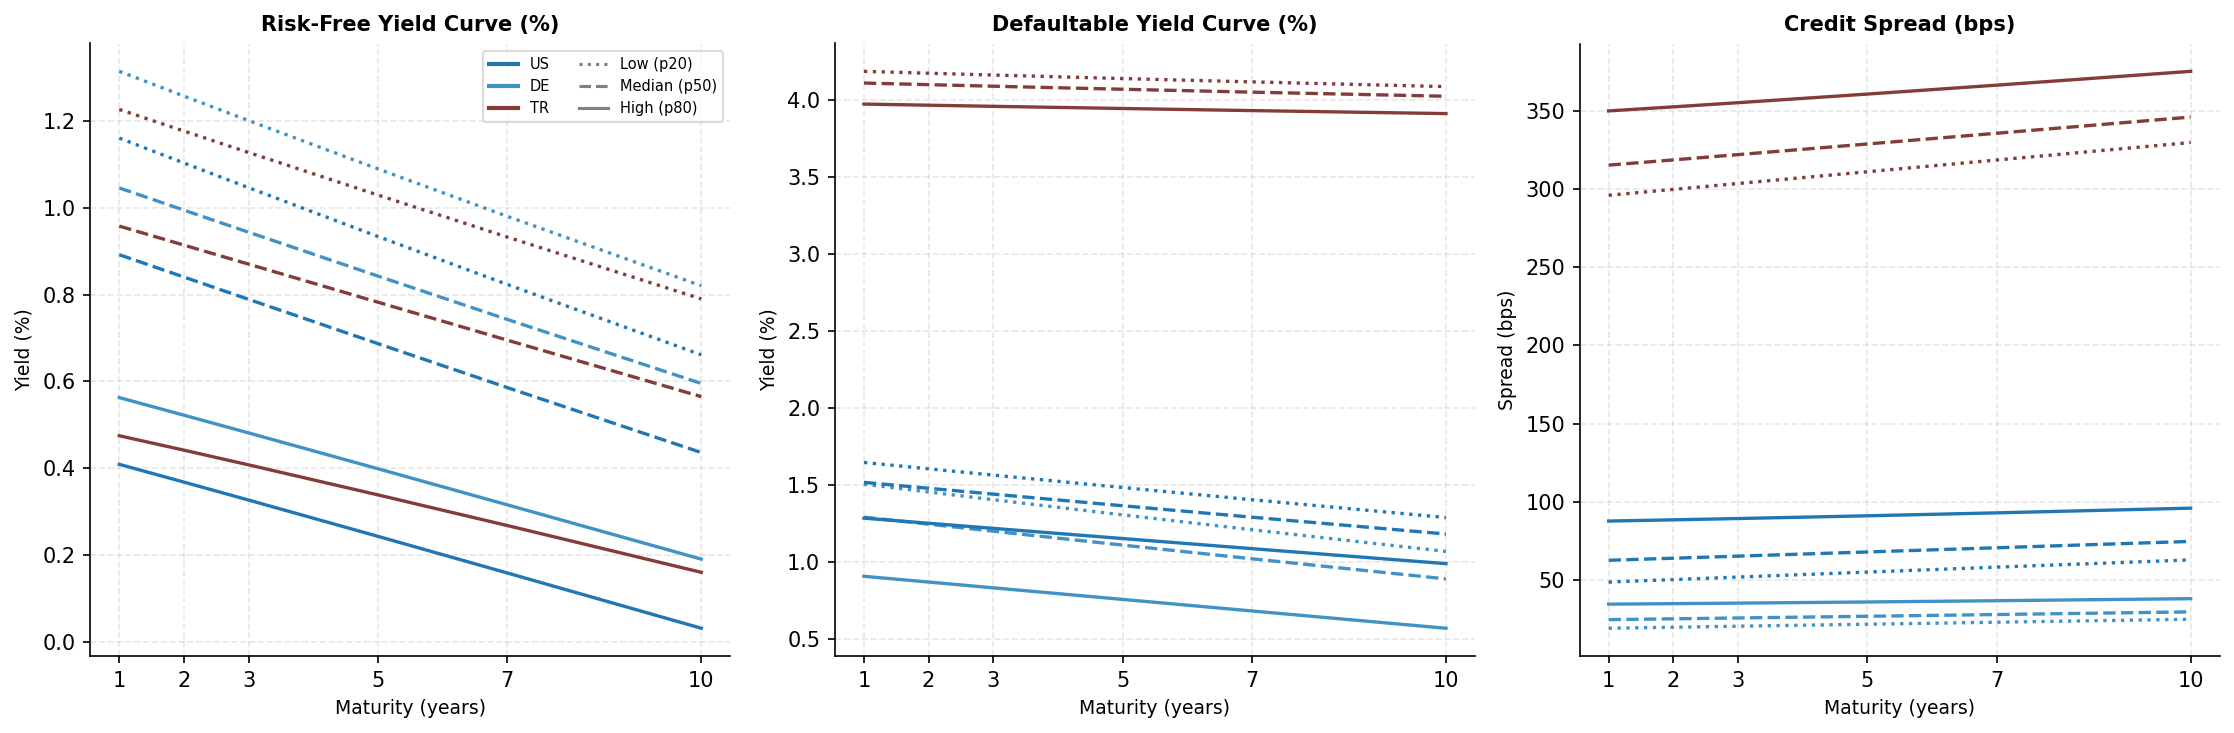
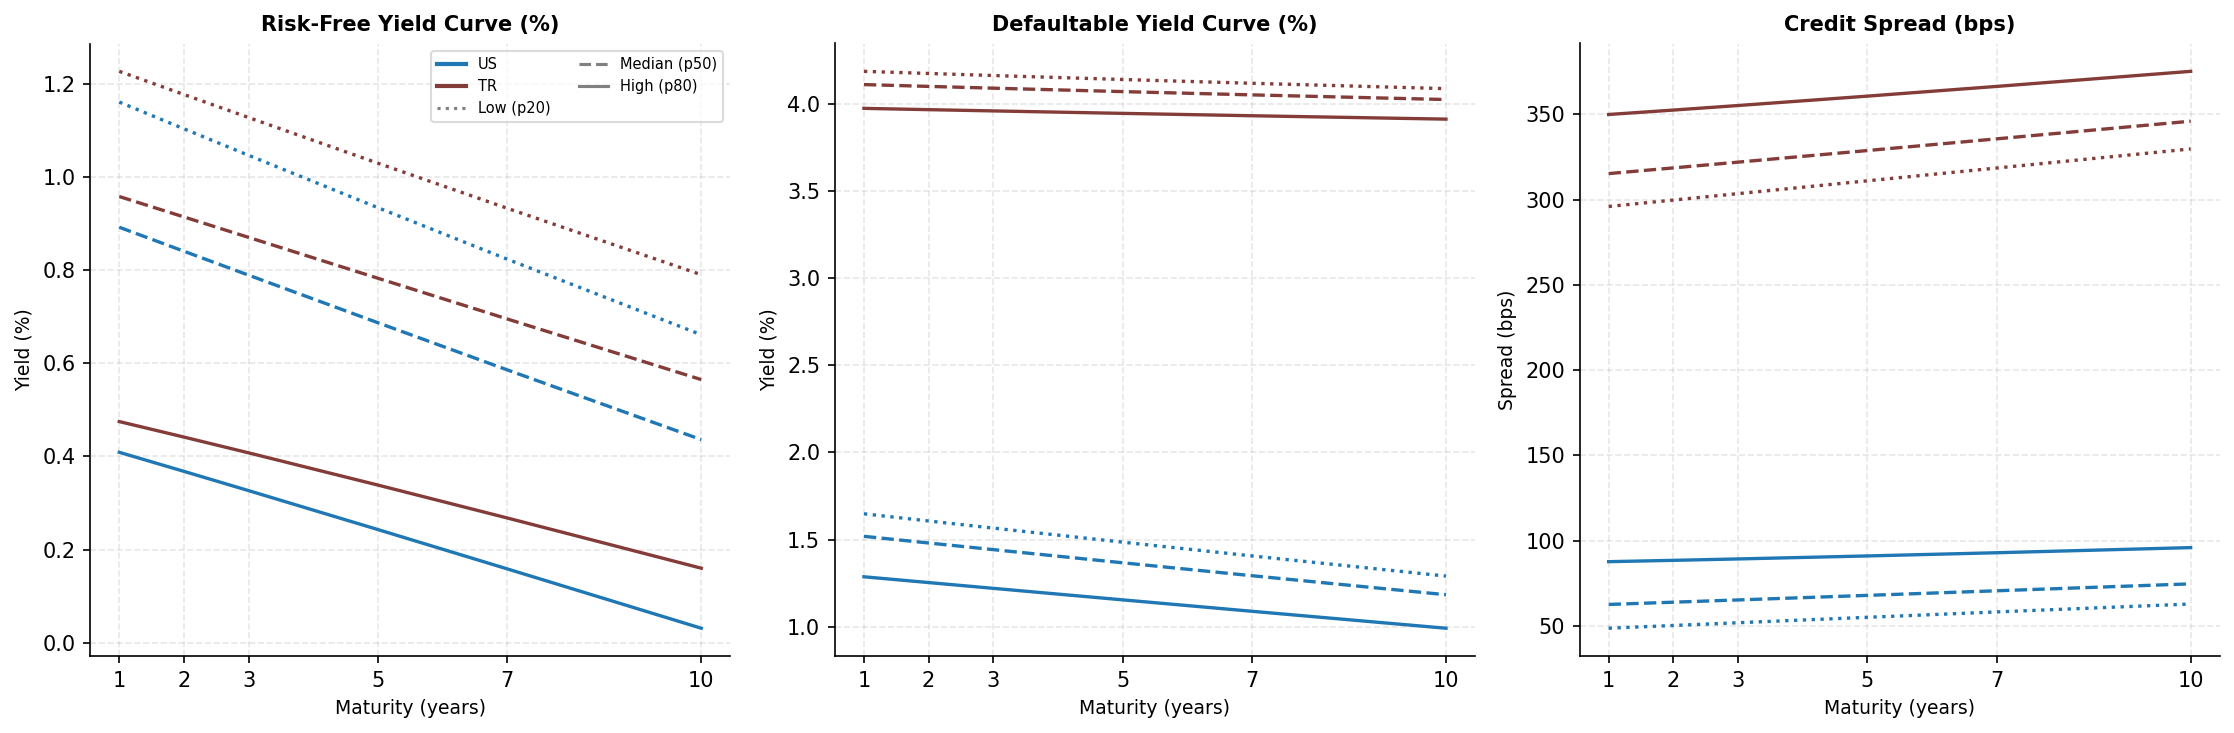
simulate

diff --git a/calibration/plot_results.py b/calibration/plot_results.py
@@ -55,8 +55,8 @@ SIM_5Y_CSV     = os.path.join(BASE_DIR, "results", "simulation", "simulated_5y_a
 FIGS_DIR       = os.path.join(BASE_DIR, "results", "figures")
 
 # ── Country groupings ────────────────────────────────────────────────────────
-DEVELOPED = ["US", "DE", "UK", "JP", "FR", "NL", "SE"]
-EMERGING  = ["BR", "CL", "ES", "ID", "MX", "MY", "TH", "TR"]
+DEVELOPED = ["US", "DE", "UK", "JP", "FR", "NL", "ES", "SE"]
+EMERGING  = ["BR", "CL", "ID", "MX", "MY", "TH", "TR"]
 ALL_15    = DEVELOPED + EMERGING
 CORE      = ["US", "DE", "UK", "CL", "ID", "TR"]
 GROUP_MAP = {c: "Developed" for c in DEVELOPED}
@@ -484,7 +484,7 @@ def plot_flight_to_quality_global_shock(
     country_p:    dict[str, DisasterModelParams],
 ) -> None:
     """RF yield, defaultable yield, and credit spread curves at 3 global disaster states."""
-    countries_ftq = ["US", "DE", "TR"]
+    countries_ftq = ["US", "TR"]
     tau_grid = np.array([1.0, 2.0, 3.0, 5.0, 7.0, 10.0])
 
     # Global disaster state percentiles

diff --git a/calibration/results/tables/latex/bond_term_structure_diagnostics.tex b/calibration/results/tables/latex/bond_term_structure_diagnostics.tex
@@ -15,12 +15,12 @@ JP & Dev & -0.001351 & -0.001345 & -4.504e-04 & No & No & No & -41.41 & -35.87 &
 FR & Dev & -0.001351 & -0.001064 & -0.001108 & No & No & No & -52.42 & -47.90 & 0.0 & 0.0 \\
 NL & Dev & -0.001351 & -0.001347 & -5.741e-04 & No & No & No & -42.02 & -37.28 & 0.0 & 0.0 \\
 SE & Dev & -0.001351 & -0.001278 & -6.741e-04 & No & No & No & -40.16 & -35.52 & 0.0 & 0.0 \\
+ES & Dev & -0.001351 & -5.214e-04 & 4.923e-04 & No & No & Yes & -42.06 & -25.23 & 0.4 & 1.3 \\
 \midrule
 \multicolumn{12}{l}{\textit{Emerging}} \\
 \midrule
 BR & Eme & -0.001351 & -7.122e-04 & 0.003292 & No & No & Yes & -47.84 & -11.80 & 0.0 & 16.8 \\
 CL & Eme & -0.001351 & -0.001297 & 9.209e-05 & No & No & Yes & -41.91 & -32.38 & 0.0 & 0.0 \\
-ES & Eme & -0.001351 & -5.214e-04 & 4.923e-04 & No & No & Yes & -42.06 & -25.23 & 0.4 & 1.3 \\
 ID & Eme & -0.001351 & -9.345e-04 & 0.001368 & No & No & Yes & -59.01 & -38.36 & 15.7 & 18.7 \\
 MX & Eme & -0.001351 & -7.729e-04 & 9.668e-04 & No & No & Yes & -42.70 & -23.47 & 0.0 & 0.7 \\
 MY & Eme & -0.001351 & -6.188e-04 & 4.177e-04 & No & No & Yes & -40.70 & -25.23 & 2.5 & 2.5 \\

diff --git a/calibration/results/tables/latex/appendix_full_term_structure_diagnostics.tex b/calibration/results/tables/latex/appendix_full_term_structure_diagnostics.tex
@@ -13,9 +13,9 @@ JP & Dev & -0.001351 & -0.001345 & -4.504e-04 & N & N & N & -41.41 & -35.87 & 0.
 FR & Dev & -0.001351 & -0.001064 & -0.001108 & N & N & N & -52.42 & -47.90 & 0.0 & 0.0 \\
 NL & Dev & -0.001351 & -0.001347 & -5.741e-04 & N & N & N & -42.02 & -37.28 & 0.0 & 0.0 \\
 SE & Dev & -0.001351 & -0.001278 & -6.741e-04 & N & N & N & -40.16 & -35.52 & 0.0 & 0.0 \\
+ES & Dev & -0.001351 & -5.214e-04 & 4.923e-04 & N & N & Y & -42.06 & -25.23 & 0.4 & 1.3 \\
 BR & Eme & -0.001351 & -7.122e-04 & 0.003292 & N & N & Y & -47.84 & -11.80 & 0.0 & 16.8 \\
 CL & Eme & -0.001351 & -0.001297 & 9.209e-05 & N & N & Y & -41.91 & -32.38 & 0.0 & 0.0 \\
-ES & Eme & -0.001351 & -5.214e-04 & 4.923e-04 & N & N & Y & -42.06 & -25.23 & 0.4 & 1.3 \\
 ID & Eme & -0.001351 & -9.345e-04 & 0.001368 & N & N & Y & -59.01 & -38.36 & 15.7 & 18.7 \\
 MX & Eme & -0.001351 & -7.729e-04 & 9.668e-04 & N & N & Y & -42.70 & -23.47 & 0.0 & 0.7 \\
 MY & Eme & -0.001351 & -6.188e-04 & 4.177e-04 & N & N & Y & -40.70 & -25.23 & 2.5 & 2.5 \\

diff --git a/calibration/results/tables/latex/calibration_main.tex b/calibration/results/tables/latex/calibration_main.tex
@@ -15,12 +15,12 @@ JP & Dev & 7.969e-09 & 0.0011 & 0.1544 & 0.993 & 0.35 & 24.38 & 0.619 & 1434 \\
 FR & Dev & 3.072e-08 & 0.0533 & 0.0452 & 0.459 & 0.40 & 16.11 & 0.476 & 834 \\
 NL & Dev & 2.457e-09 & 0.0008 & 0.1443 & 0.995 & 0.40 & 23.16 & 0.625 & 1363 \\
 SE & Dev & 4.648e-08 & 0.0136 & 0.1257 & 0.902 & 0.40 & 31.14 & 0.367 & 1353 \\
+ES & Dev & 1.779e-15 & 0.1541 & 0.3423 & 0.690 & 0.40 & 86.08 & 0.741 & 1368 \\
 \midrule
 \multicolumn{10}{l}{\textit{Emerging}} \\
 \midrule
 BR & Eme & 1.640e-06 & 0.0949 & 0.6896 & 0.879 & 0.25 & 75.00 & 0.460 & 570 \\
 CL & Eme & 0.001198 & 0.0080 & 0.2144 & 0.964 & 0.25 & 37.34 & 0.406 & 1062 \\
-ES & Eme & 1.779e-15 & 0.1541 & 0.3423 & 0.690 & 0.40 & 86.08 & 0.741 & 1368 \\
 ID & Eme & 1.132e-11 & 0.0774 & 0.5048 & 0.867 & 0.40 & 86.20 & 0.739 & 1410 \\
 MX & Eme & 1.115e-06 & 0.0859 & 0.3443 & 0.800 & 0.25 & 54.12 & 0.423 & 918 \\
 MY & Eme & 4.882e-09 & 0.1360 & 0.3284 & 0.707 & 0.40 & 46.75 & 0.607 & 1422 \\

diff --git a/calibration/results/tables/latex/appendix_full_simulation_moments.tex b/calibration/results/tables/latex/appendix_full_simulation_moments.tex
@@ -14,9 +14,9 @@ JP & Developed & 40.9 & 19.6 & 25.8 & 11.1 & 0.976 & 0.982 \\
 FR & Developed & 26.7 & 25.3 & 10.4 & 10.3 & 0.882 & 0.990 \\
 NL & Developed & 33.7 & 16.8 & 27.4 & 9.5 & 0.966 & 0.982 \\
 SE & Developed & 34.3 & 18.3 & 33.8 & 8.9 & 0.908 & 0.983 \\
+ES & Developed & 112.9 & 85.7 & 109.1 & 35.9 & 0.981 & 0.988 \\
 BR & Emerging & 206.5 & 134.2 & 42.1 & 62.8 & 0.835 & 0.984 \\
 CL & Emerging & 76.4 & 42.6 & 26.3 & 18.0 & 0.921 & 0.982 \\
-ES & Emerging & 112.9 & 85.7 & 109.1 & 35.9 & 0.981 & 0.988 \\
 ID & Emerging & 152.9 & 96.7 & 101.1 & 39.7 & 0.927 & 0.985 \\
 MX & Emerging & 119.7 & 77.7 & 30.6 & 34.8 & 0.841 & 0.985 \\
 MY & Emerging & 116.1 & 76.0 & 51.0 & 32.4 & 0.941 & 0.987 \\

diff --git a/calibration/results/tables/latex/appendix_full_parameters.tex b/calibration/results/tables/latex/appendix_full_parameters.tex
@@ -9,7 +9,7 @@ Country & Group & $h_0^*$ & $\eta_i$ & $\eta_{g,i}$ & $R$ & RMSE (bps) & Corr & 
 BR & Eme & 1.640e-06 & 0.0949 & 0.6896 & 0.25 & 75.00 & 0.460 & 570 & Y \\
 CL & Eme & 0.001198 & 0.0080 & 0.2144 & 0.25 & 37.34 & 0.406 & 1062 & Y \\
 DE & Dev & 2.322e-07 & 0.0001 & 0.1333 & 0.40 & 19.33 & 0.604 & 1434 & Y \\
-ES & Eme & 1.779e-15 & 0.1541 & 0.3423 & 0.40 & 86.08 & 0.741 & 1368 & Y \\
+ES & Dev & 1.779e-15 & 0.1541 & 0.3423 & 0.40 & 86.08 & 0.741 & 1368 & Y \\
 FR & Dev & 3.072e-08 & 0.0533 & 0.0452 & 0.40 & 16.11 & 0.476 & 834 & Y \\
 ID & Eme & 1.132e-11 & 0.0774 & 0.5048 & 0.40 & 86.20 & 0.739 & 1410 & Y \\
 JP & Dev & 7.969e-09 & 0.0011 & 0.1544 & 0.35 & 24.38 & 0.619 & 1434 & Y \\

diff --git a/calibration/make_thesis_tables.py b/calibration/make_thesis_tables.py
@@ -47,8 +47,8 @@ TABLES_DIR     = os.path.join(BASE_DIR, "results", "tables")
 LATEX_DIR      = os.path.join(TABLES_DIR, "latex")
 
 # ── Country groupings ────────────────────────────────────────────────────────
-DEVELOPED = ["US", "DE", "UK", "JP", "FR", "NL", "SE"]
-EMERGING  = ["BR", "CL", "ES", "ID", "MX", "MY", "TH", "TR"]
+DEVELOPED = ["US", "DE", "UK", "JP", "FR", "NL", "SE", "ES"]
+EMERGING  = ["BR", "CL", "ID", "MX", "MY", "TH", "TR"]
 ALL_15    = DEVELOPED + EMERGING
 CORE      = ["US", "DE", "UK", "CL", "ID", "TR"]
 GROUP_MAP = {c: "Developed" for c in DEVELOPED}

diff --git a/calibration/results/tables/latex/appendix_full_intensity_diagnostics.tex b/calibration/results/tables/latex/appendix_full_intensity_diagnostics.tex
@@ -13,9 +13,9 @@ JP & 239 & 3.488 & 1.368 & 3.790 & 1.280 \\
 FR & 139 & 2.838 & 0.752 & 4.974 & 1.450 \\
 NL & 228 & 3.534 & 1.384 & 3.942 & 1.909 \\
 SE & 228 & 3.534 & 1.384 & 3.627 & 1.023 \\
+ES & 228 & 3.534 & 1.384 & 3.948 & 1.947 \\
 BR & 95 & 2.626 & 0.689 & 3.976 & 1.967 \\
 CL & 177 & 3.256 & 1.105 & 3.632 & 2.536 \\
-ES & 228 & 3.534 & 1.384 & 3.948 & 1.947 \\
 ID & 235 & 3.505 & 1.374 & 6.790 & 6.320 \\
 MX & 153 & 2.938 & 0.787 & 3.432 & 1.695 \\
 MY & 237 & 3.496 & 1.371 & 3.678 & 1.812 \\
